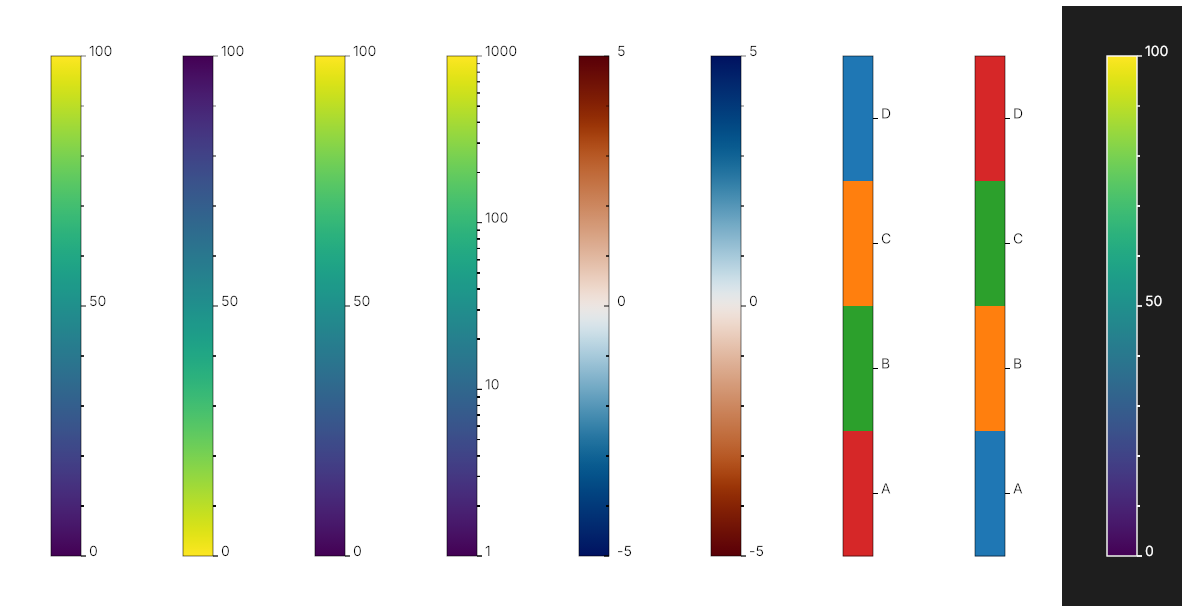
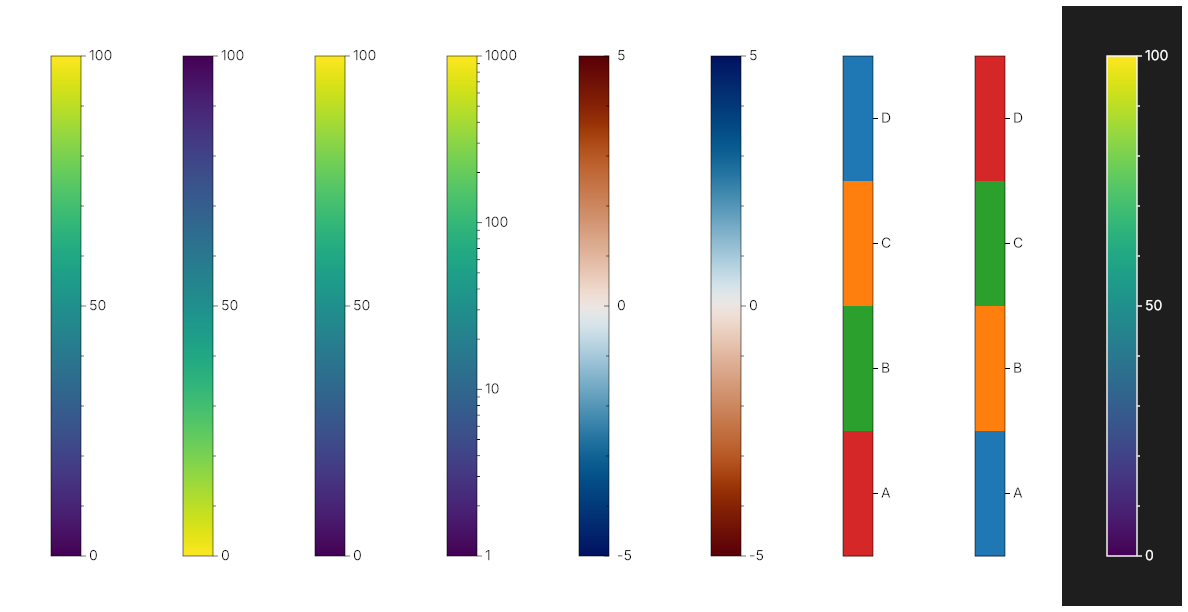
FIX: doc links: link into rendered API docs on ghpages

diff --git a/README.md b/README.md
@@ -49,9 +49,9 @@ Rather than forcing a full layout framework on you, we offer three API levels:
 ## Documentation
 
 - [API Reference](https://dfsp-spirit.github.io/scibar/) — Doxygen-generated API docs
-- [API Overview](docs/API_OVERVIEW.md) — high-level vs low-level, raster vs vector function reference
-- [Getting Started Guide](docs/GETTING_STARTED.md) — quick start and core concepts
-- [FAQ](docs/FAQ.md) — common questions about colormap direction, ticks, layout, and more
+- [API Overview](https://dfsp-spirit.github.io/scibar/api_overview.html) — high-level vs low-level, raster vs vector function reference
+- [Getting Started Guide](https://dfsp-spirit.github.io/scibar/getting_started.html) — quick start and core concepts
+- [FAQ](https://dfsp-spirit.github.io/scibar/faq.html) — common questions about colormap direction, ticks, layout, and more
 
 
 ## Quick Start
